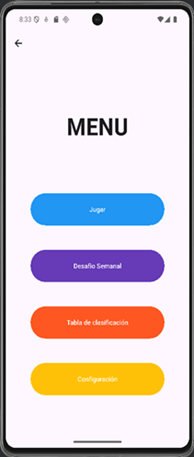
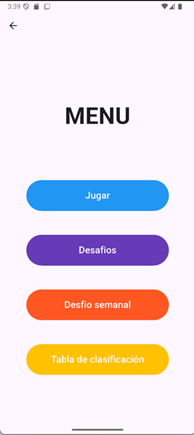
Cambio del menu configuración por el menu desafios y sus rutas

diff --git a/lib/menu.dart b/lib/menu.dart
@@ -1,4 +1,4 @@
-import 'package:color_match/configuration.dart';
+import 'package:color_match/challenges.dart';
 import 'package:color_match/leader_board.dart';
 import 'package:color_match/main.dart';
 import 'package:color_match/levels.dart';
@@ -90,12 +90,12 @@ class Menu extends StatelessWidget {
                           context,
                           MaterialPageRoute(
                             builder: (context) {
-                              return Weekly();
+                              return Challenges();
                             },
                           ),
                         );
                       },
-                      child: Text("Desafio Semanal", style:TextStyle(fontSize: 20)),
+                      child: Text("Desafios", style:TextStyle(fontSize: 20)),
                     ),
                   ),
                   Container(
@@ -120,12 +120,12 @@ class Menu extends StatelessWidget {
                           context,
                           MaterialPageRoute(
                             builder: (context) {
-                              return LeaderBoard();
+                              return Weekly();
                             },
                           ),
                         );
                       },
-                      child: Text("Tabla de clasificación", style:TextStyle(fontSize: 20)),
+                      child: Text("Desfio semanal", style:TextStyle(fontSize: 20)),
                     ),
                   ),
                   Container(
@@ -150,12 +150,12 @@ class Menu extends StatelessWidget {
                           context,
                           MaterialPageRoute(
                             builder: (context) {
-                              return Configuration();
+                              return LeaderBoard();
                             },
                           ),
                         );
                       },
-                      child: Text("Configuración", style:TextStyle(fontSize: 20)),
+                      child: Text("Tabla de clasificación", style:TextStyle(fontSize: 20)),
                     ),
                   ),
 

diff --git a/lib/challenges.dart b/lib/challenges.dart
@@ -4,8 +4,8 @@ import 'package:flutter/material.dart';
 
 void main() => runApp(const MyApp());
 
-class Configuration extends StatelessWidget {
-  const Configuration({super.key});
+class Challenges extends StatelessWidget {
+  const Challenges({super.key});
 
   @override
   Widget build(BuildContext context) {
@@ -33,7 +33,7 @@ class Configuration extends StatelessWidget {
           child: Column(
             mainAxisAlignment: MainAxisAlignment.center,
             children: [
-              Text('Configuration'),
+              Text('Desafios'),
             ],
           ),
         ),
